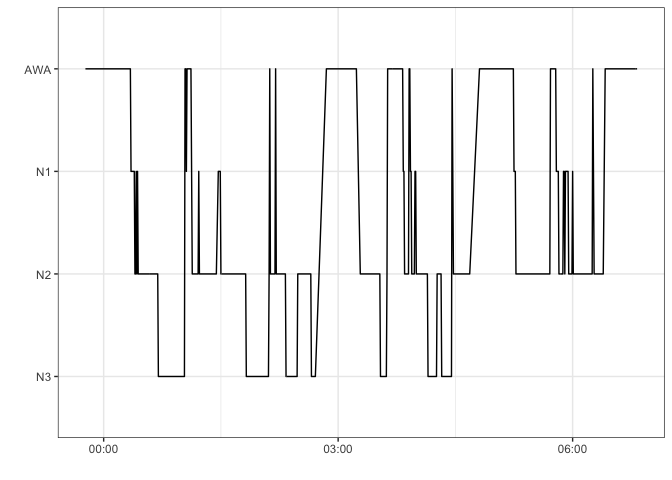
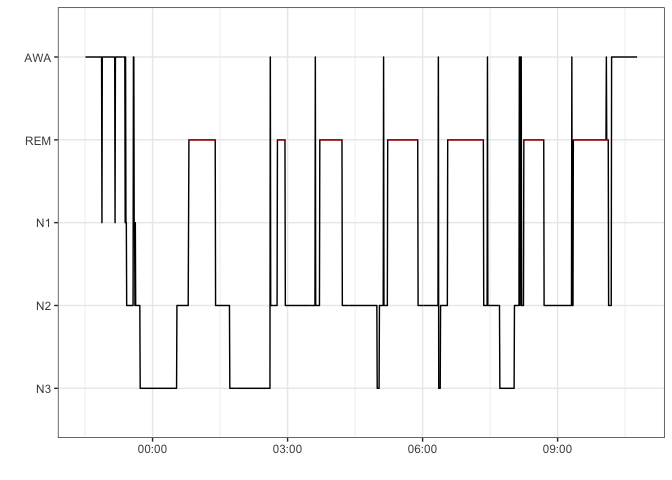
hypnogram

diff --git a/README.md b/README.md
@@ -21,6 +21,8 @@ Load the package using the `library()` function.
 library(rsleep)
 ```
 
+## Using rsleep with sleep data
+
 ### File manipulation
 
 In `rsleep`, `write_mdf()` and `read_mdf()` functions are used to write
@@ -34,6 +36,10 @@ uses binary files for signals and JSON for metadata.
 
 #### Stages
 
+Hypnograms \[4\] can be plotted from stages data stored in a dataframe.
+`example_hypnogram_30s` provides an example of such a dataframe, with a
+full night hypnogram.
+
 ``` r
 plot_hypnogram(example_hypnogram_30s)
 ```
@@ -43,7 +49,7 @@ plot_hypnogram(example_hypnogram_30s)
 #### Electrocardiogram
 
 `detect_rpeaks` implements the first part of the Pan & Tompkins
-algorithm \[4\] to detect R peaks from an electrocardiogram (ECG)
+algorithm \[5\] to detect R peaks from an electrocardiogram (ECG)
 signal.
 
 ``` r
@@ -59,13 +65,13 @@ rpeaks <- detect_rpeaks(example_ecg_200hz, sRate)
 ggplot(ecg,
        aes(x = Seconds,
            y = Volts)) +
-  geom_line() +
+  geom_line() + theme_bw() +
   geom_vline(data.frame(p = rpeaks),
              mapping = aes(xintercept = p),
              linetype="dashed",color = "red")
 ```
 
-![](README_files/figure-gfm/example_detect_rpeaks-1.png)<!-- -->
+![](README_files/figure-gfm/detect_rpeaks-1.png)<!-- -->
 
 ### Statistics computing
 
@@ -96,13 +102,13 @@ stages_stats(example_hypnogram_30s)
 ```
 
     ## rem_duration  n1_duration  n2_duration  n3_duration awa_duration 
-    ##   0.00000000  19.00000000 177.00000000  70.50000000  84.50000000 
+    ## 2.380000e+02 4.500000e+00 2.705000e+02 1.280000e+02 9.400000e+01 
     ##          tts      rem_tts       n1_tts       n2_tts       n3_tts 
-    ## 266.50000000   0.00000000   0.07129456   0.66416510   0.26454034 
+    ## 6.410000e+02 3.712949e-01 7.020281e-03 4.219969e-01 1.996880e-01 
     ##      awa_tts          tsp   efficiency      latency   n1_latency 
-    ##   0.31707317 424.00000000   0.62853774  35.00000000   0.00000000 
-    ##   n2_latency   n3_latency         waso 
-    ##   3.00000000  21.00000000 122.50000000
+    ## 1.466459e-01 7.360000e+02 8.709239e-01 2.200000e+01 0.000000e+00 
+    ##   n2_latency   n3_latency  rem_latency         waso 
+    ## 3.300000e+01 5.100000e+01 1.160000e+02 7.300000e+01
 
 ## References
 
@@ -135,9 +141,18 @@ doi:[10.1016/j.msom.2018.01.130](https://doi.org/10.1016/j.msom.2018.01.130).
 
 </div>
 
+<div id="ref-AASMScoringManual">
+
+\[4\] AASM Scoring Manual - American Academy of Sleep Medicine, American
+Academy of Sleep Medicine Association for Sleep Clinicians and
+Researchers. (n.d.).
+<https://aasm.org/clinical-resources/scoring-manual/>.
+
+</div>
+
 <div id="ref-panRealTimeQRSDetection1985">
 
-\[4\] J. Pan, W.J. Tompkins, A Real-Time QRS Detection Algorithm, IEEE
+\[5\] J. Pan, W.J. Tompkins, A Real-Time QRS Detection Algorithm, IEEE
 Transactions on Biomedical Engineering. BME-32 (1985) 230–236.
 doi:[10.1109/TBME.1985.325532](https://doi.org/10.1109/TBME.1985.325532).
 
